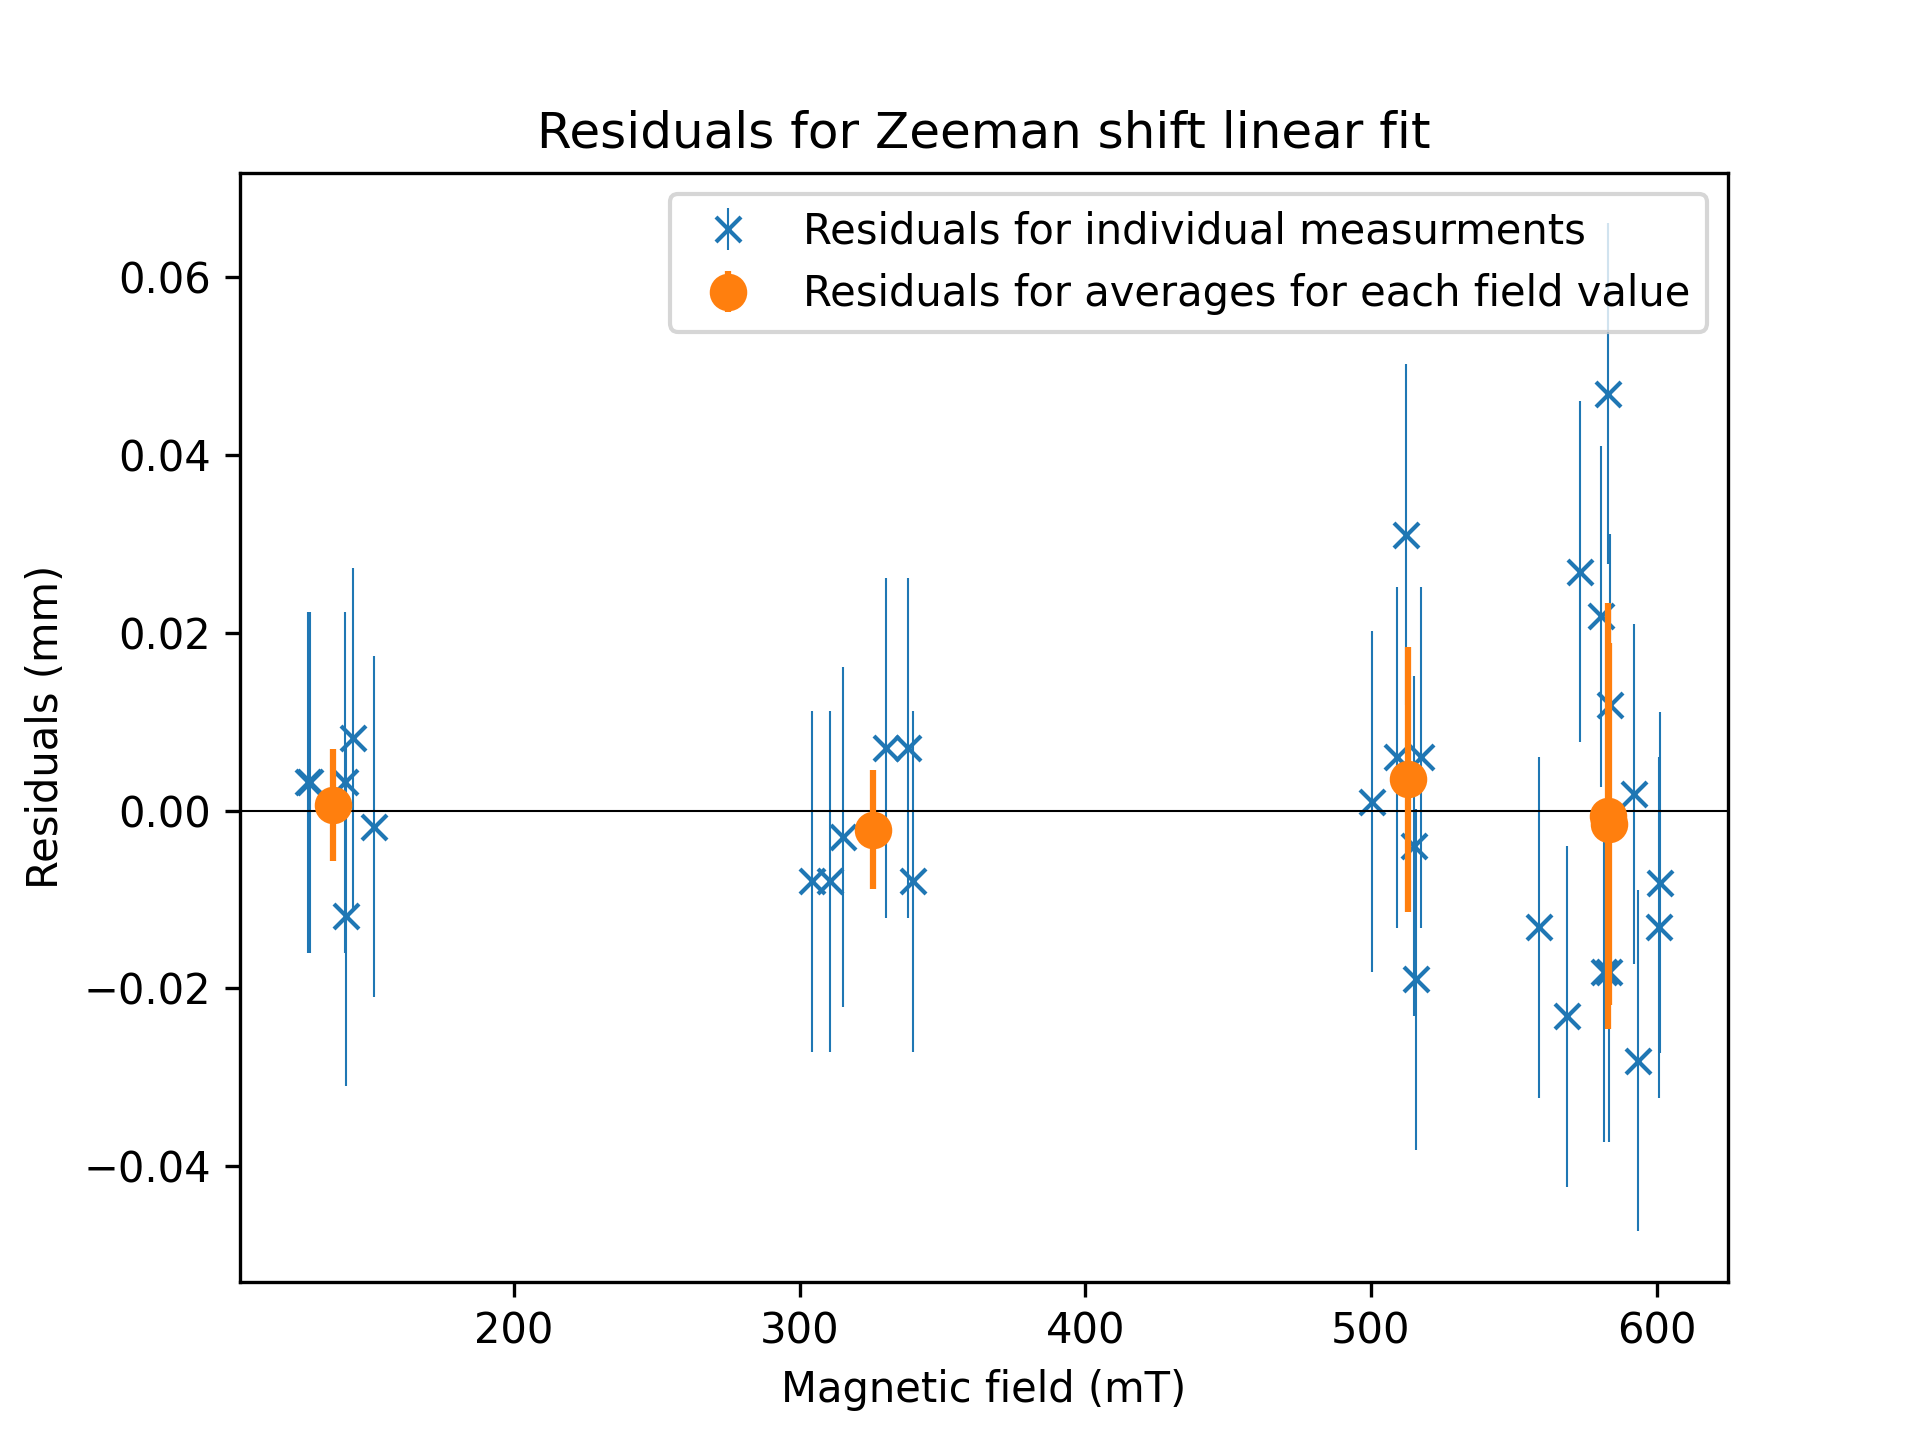
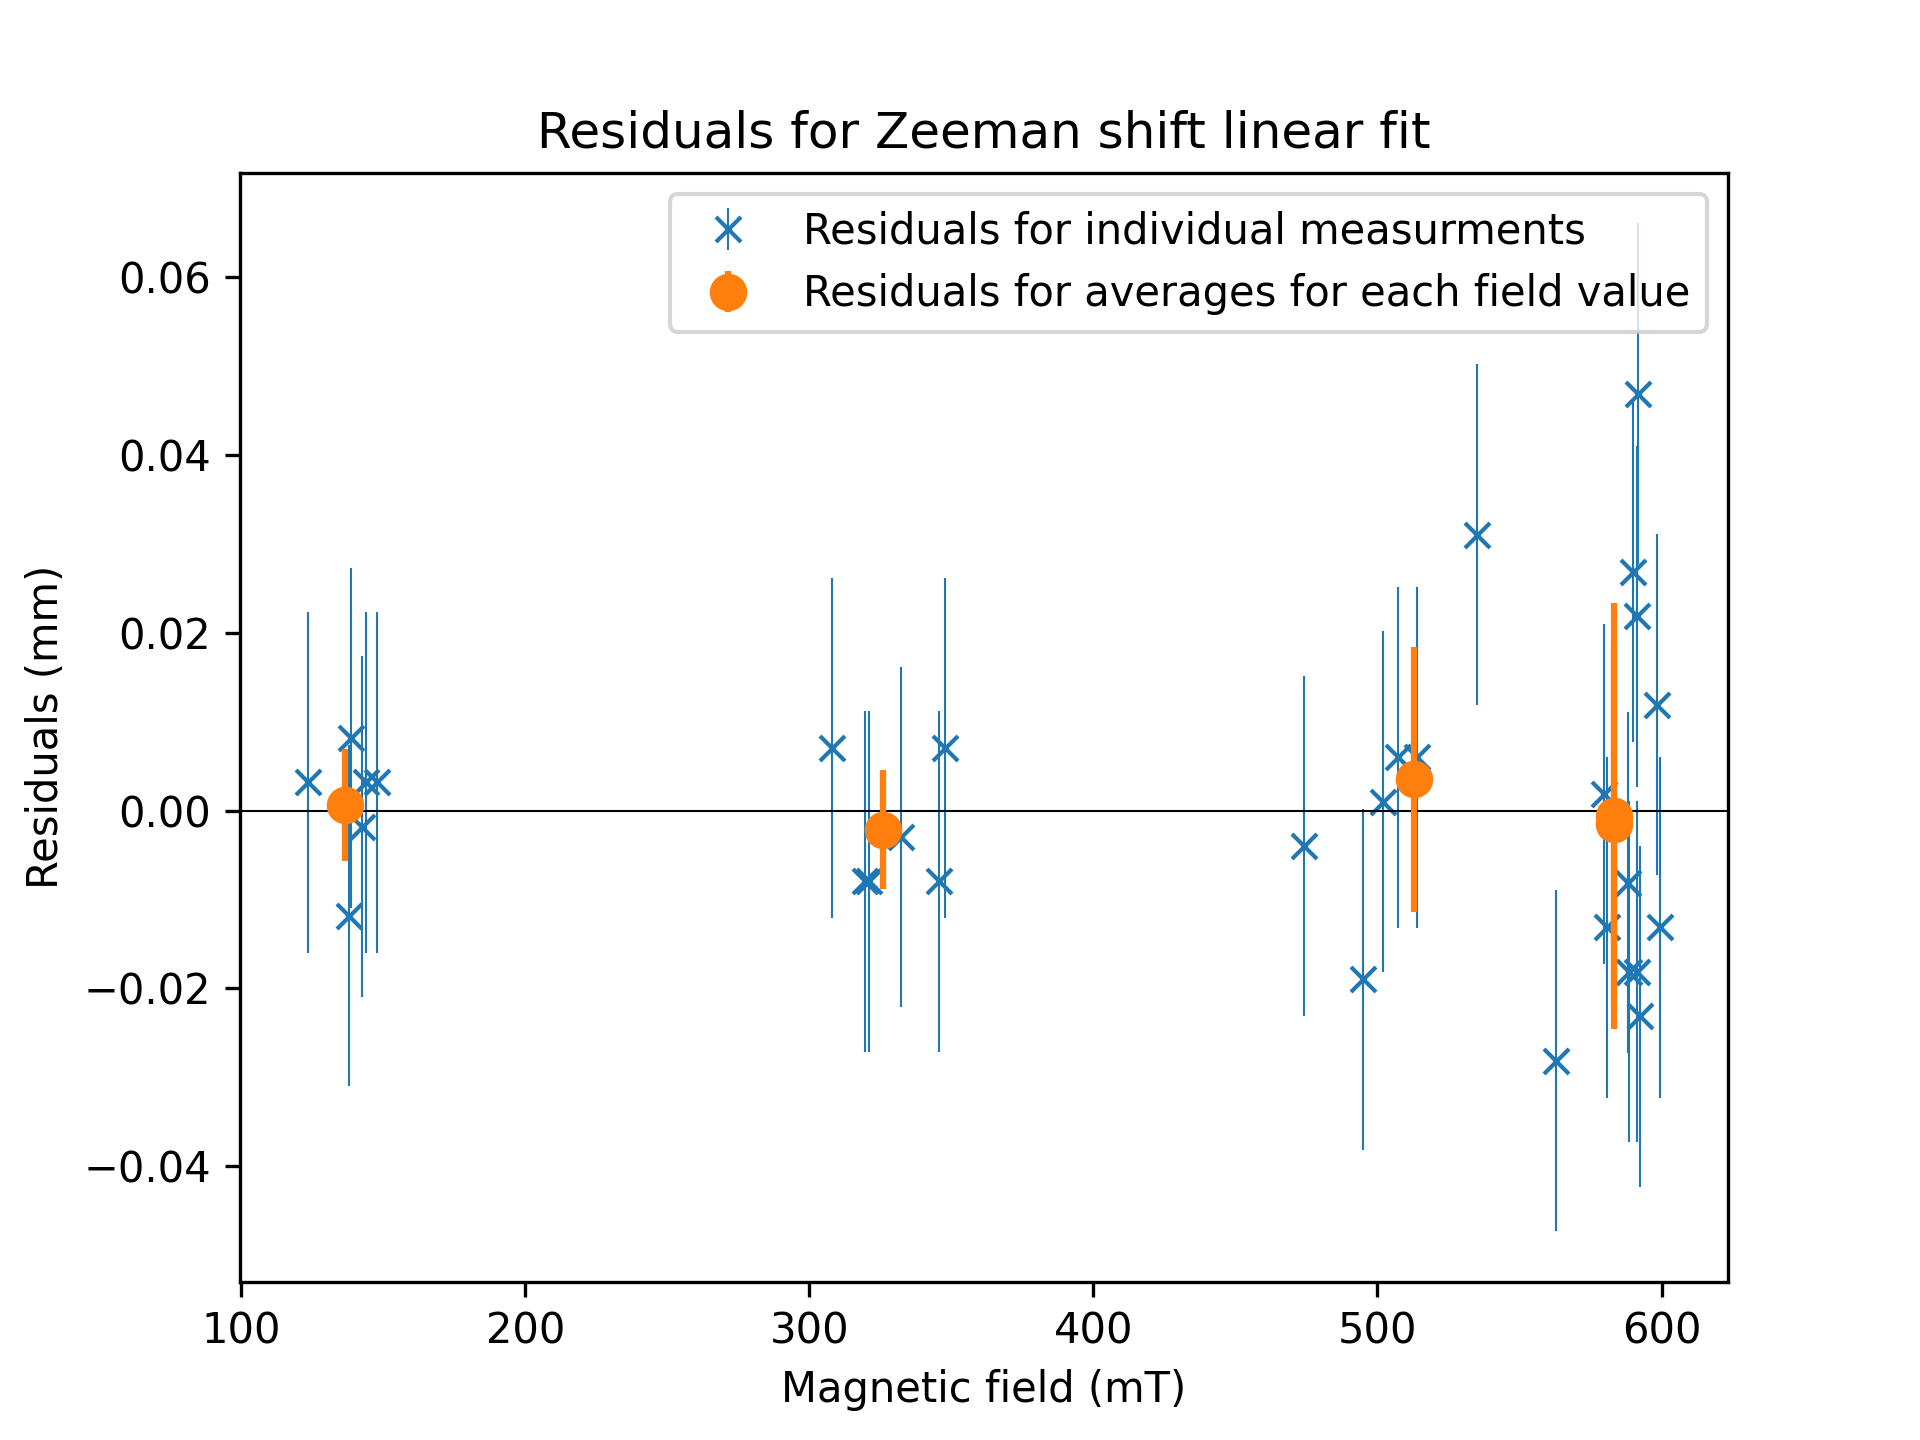
correct value for chi squared

diff --git a/Appendix/Appendix.tex b/Appendix/Appendix.tex
@@ -252,7 +252,7 @@ This appendix contains the calculations for the uncertainty propagation in the e
 
 \subsubsection{Part 1: Magnetic Field Intensity Measurements}
 
-The uncertainty for the individual current measurments was the precision of the instrument used:
+The uncertainty for the individual current measurements was the precision of the instrument used:
 
 \begin{equation}
     \Delta I = 0.5 A
@@ -262,6 +262,20 @@ The uncertainty for the individual current measurments was the precision of the 
     \Delta E = 0.5 mT
 \end{equation}
 
-These uncertianty valuers are relfected as errorbars in the plots in the Results section.
+These uncertainty valuers are reflected as errorbars in the plots in the Results section.
+
+The uncertainties of the average values shown on the graphs were calculated using the standard deviation of the measurements.
+
+\subsubsection{Part 2: Observing the linearity of the Zeeman shift with respect to the field strength}
+
+The uncertainty for the individual line position measurements was the precision of the instrument used:
+
+\begin{equation}
+    \Delta x = 0.05 mm
+\end{equation}
+
+The uncertainty for the field is the same as in the previous section.
+
+
 
 For the averages for each trial, the uncertainty is the standard deviation of the measurements.

diff --git a/Results/scripts/graphing/zeeman_shift_scatter.py b/Results/scripts/graphing/zeeman_shift_scatter.py
@@ -17,10 +17,14 @@ fields = {
 }
 
 
-def chi_squared(expected, obtained, std_dev, degrees_freedom):
+def chi_squared(expected, obtained, std_dev, degrees_freedom, n_measurments=0):
+
+    if not n_measurments:
+        n_measurments = len(expected)
+
     chi_squared = sum(((expected - obtained) / std_dev) ** 2)
     print(f"Chi squared: {chi_squared}")
-    reduced_chi_squared = chi_squared / (len(expected) - degrees_freedom)
+    reduced_chi_squared = chi_squared / (n_measurments - degrees_freedom)
     print(f"Reduced chi squared: {reduced_chi_squared}")
 
 
@@ -134,7 +138,8 @@ print(f"Slope: {slope:.4e} \pm {slope_std:.4e} (m/t)")
 print(f"Intercept: {intercept:.4e} \pm {np.sqrt(cov[1, 1]):.4e} (mm)")
 
 # get the chi squared
-chi_squared(all_shifts, np.array(all_fields) * slope, np.std(all_shifts), 2)
+chi_squared(all_shifts, np.array(all_fields) * slope,
+            np.std(all_shifts), 2, len(averages_shifts))
 
 
 # Calculate the e/m ratio

diff --git a/Results/Results.tex b/Results/Results.tex
@@ -42,10 +42,10 @@ Now, we plot the previously obtained values in a scatter plot and compare it to 
 
 The parameters for the standard fit are, where T is in tesla
 \begin{gather*}
-    \Delta x = (58.870 \pm 17.648)T + (33.781 \pm 8.1574) \mu m \quad \chi^2 / \nu = 34.6 / 29 = 1.19
+    \Delta x = (58.870 \pm 17.648)T + (33.781 \pm 8.1574) \mu m \quad \chi^2 / \nu = 114.6 / 29 = 38.2
 \end{gather*}
 
-The reduced Chi squared value is $1.19$, which indicated a good fit.
+The reduced Chi squared value is $38.2$, which indicated a good fit.
 
 \subsection{Part 3: measuring the $\frac{e}{m}$ relationship.}
 
